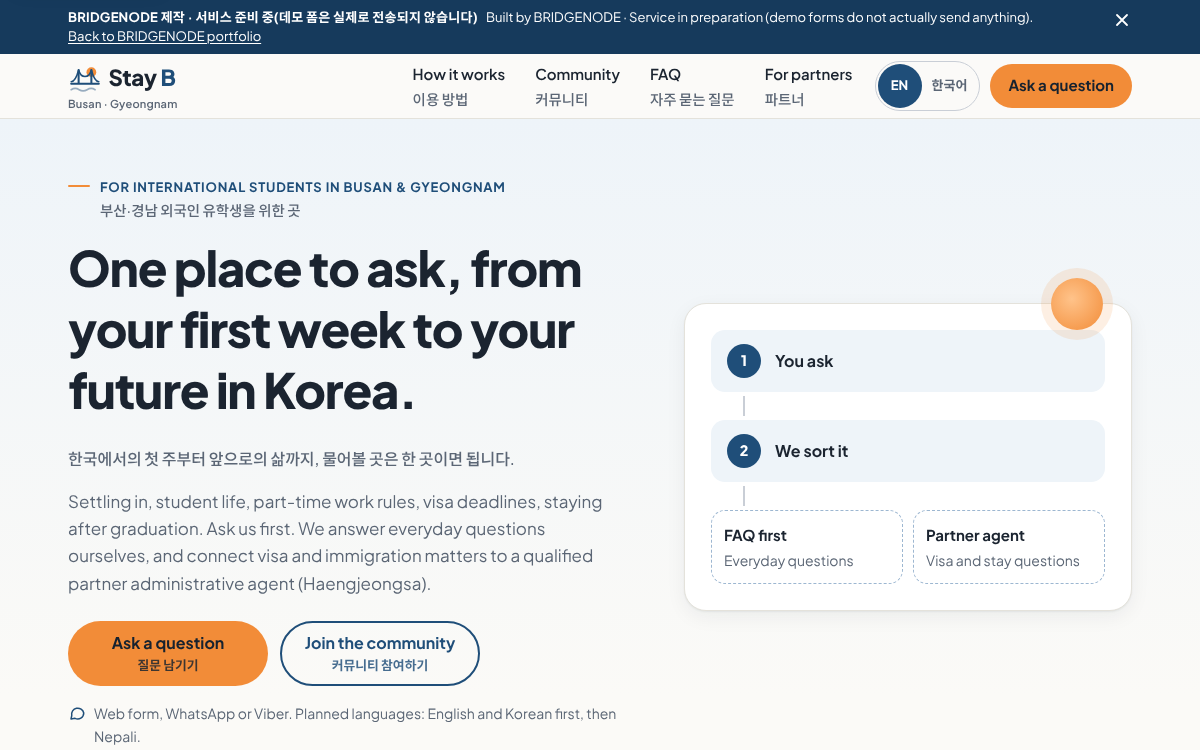
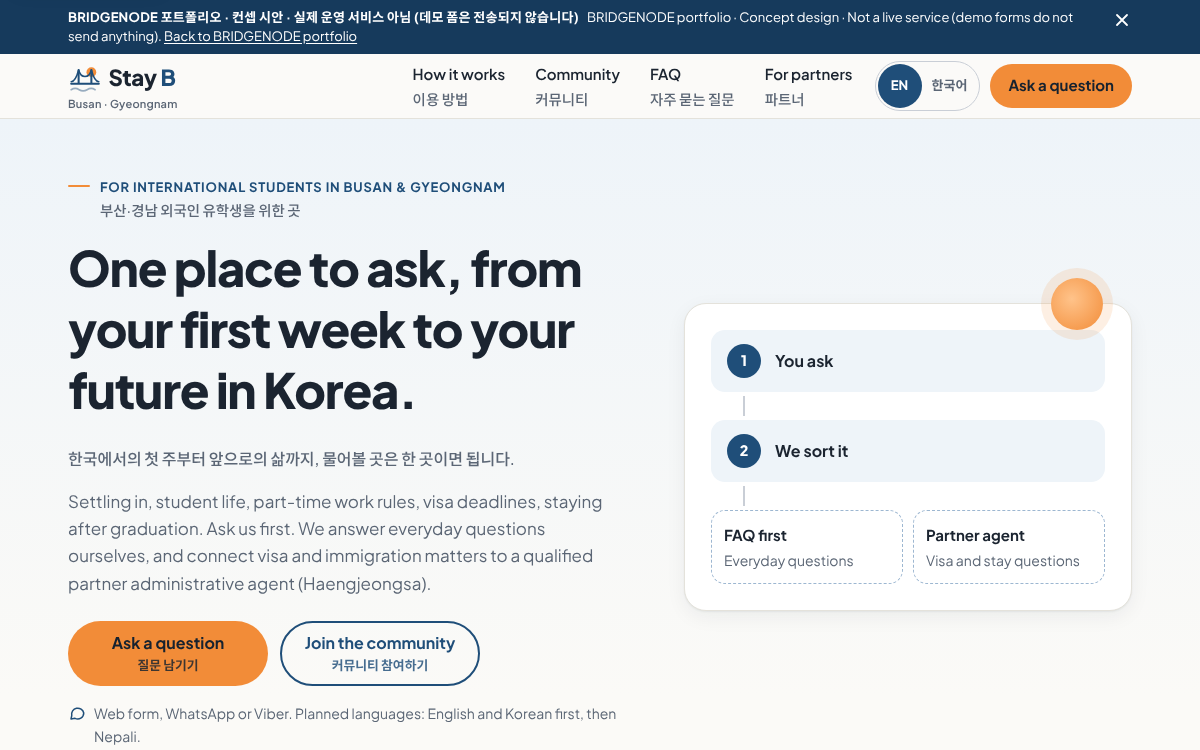
Stay B: 검토 A절 반영, 포트폴리오 컨셉 시안 표기로 되돌림
- F-A1 partners 원칙 1 문구 교체(사건 소개 표현 제거), F-A2 헤리티지 스튜디오 B 문구 메인과 통일
- F-A3 기획안 결정 5번을 '제작 메모' 절로 이동
- 안내띠·푸터 '서비스 준비 중' 제거, 컨셉 시안 문구로, 푸터에 가칭 한 줄 추가
- R-A1 흐름 제목, R-A4 피드 제목, R-A5 표 caption, R-A6 역할표 표기 통일, R-A7 canonical 절대 주소
- thumb.png 재캡처

Claude-Session: https://claude.ai/code/session_01TAYZkbMJZLRQs6imsEjKx5

Changed region(s): [[0.0617, 0.0, 0.8942, 0.0613]]

diff --git a/portfolio-site/stay-b/partners.html b/portfolio-site/stay-b/partners.html
@@ -23,8 +23,8 @@
 <div id="concept-bar" role="region" aria-label="Notice / 안내">
   <div class="wrap">
     <div class="cb-text">
-      <strong lang="ko">BRIDGENODE 제작 · 서비스 준비 중(데모 폼은 실제로 전송되지 않습니다)</strong>
-      <span data-l="en" lang="en">Built by BRIDGENODE · Service in preparation (demo forms do not actually send anything).</span>
+      <strong lang="ko">BRIDGENODE 포트폴리오 · 컨셉 시안 · 실제 운영 서비스 아님 (데모 폼은 전송되지 않습니다)</strong>
+      <span data-l="en" lang="en">BRIDGENODE portfolio · Concept design · Not a live service (demo forms do not send anything).</span>
       <a href="../"><span data-l="en" lang="en">Back to BRIDGENODE portfolio</span><span data-l="ko" lang="ko">브릿지노드 포트폴리오로</span></a>
     </div>
     <button class="cb-close" type="button" id="cb-close" aria-label="Close notice / 안내 닫기">
@@ -106,7 +106,7 @@
       <article class="hub-node r"><span class="kind"><span class="pair inline"><span lang="en">Education</span><span lang="ko">교육 기관</span></span></span><h3><span class="pair"><span lang="en">Language schools (Nepal)</span><span lang="ko">네팔 어학원</span></span></h3><p><span data-l="en" lang="en">Connecting with students in their home country and staying in touch before they arrive.</span><span data-l="ko" lang="ko">현지 학생과의 연결, 입국 전 소통을 함께합니다.</span></p></article>
       <article class="hub-node l"><span class="kind"><span class="pair inline"><span lang="en">Education</span><span lang="ko">교육 기관</span></span></span><h3><span class="pair"><span lang="en">University international offices</span><span lang="ko">대학 국제처</span></span></h3><p><span data-l="en" lang="en">Student support and running settling-in support together.</span><span data-l="ko" lang="ko">학생 관리와 정착 지원 운영에 협력합니다.</span></p></article>
       <article class="hub-node r"><span class="kind"><span class="pair inline"><span lang="en">Local</span><span lang="ko">지역</span></span></span><h3><span class="pair"><span lang="en">Local partner businesses</span><span lang="ko">지역 제휴업체</span></span></h3><p><span data-l="en" lang="en">Everyday discounts for student members.</span><span data-l="ko" lang="ko">학생 멤버를 위한 생활 할인을 제공합니다.</span></p></article>
-      <article class="hub-node l"><span class="kind"><span class="pair inline"><span lang="en">Planned</span><span lang="ko">연결 예정</span></span></span><h3><span class="pair"><span lang="en">Heritage Studio B</span><span lang="ko">헤리티지 스튜디오 B</span></span></h3><p><span data-l="en" lang="en">Welcome kits, membership goods and social content.</span><span data-l="ko" lang="ko">웰컴 키트, 멤버십 굿즈, SNS 콘텐츠.</span></p></article>
+      <article class="hub-node l"><span class="kind"><span class="pair inline"><span lang="en">Planned</span><span lang="ko">연결 예정</span></span></span><h3><span class="pair"><span lang="en">Heritage Studio B</span><span lang="ko">헤리티지 스튜디오 B</span></span></h3><p><span data-l="en" lang="en">Goods, membership kits and social content.</span><span data-l="ko" lang="ko">굿즈·멤버십 키트·SNS 콘텐츠.</span></p></article>
       <article class="hub-node r"><span class="kind"><span class="pair inline"><span lang="en">Planned</span><span lang="ko">연결 예정</span></span></span><h3><span class="pair"><span lang="en">NOWRO Korea</span><span lang="ko">NOWRO Korea</span></span></h3><p><span data-l="en" lang="en">Family visits and travel in Korea.</span><span data-l="ko" lang="ko">가족 방문·관광 연결.</span></p></article>
     </div>
     <p class="hub-foot"><span data-l="en" lang="en">Job introductions are handled by registered employment agencies and public employment centers. Stay B shares general information only. Heritage Studio B and NOWRO Korea will be connected step by step, once the student community is established.</span><span data-l="ko" lang="ko">일자리 알선은 등록된 기관과 고용센터가 수행하며, Stay B는 일반 정보만 안내합니다. 헤리티지 스튜디오 B와 NOWRO Korea는 학생 기반이 쌓인 뒤 단계적으로 연결합니다.</span></p>
@@ -118,11 +118,12 @@
   <div class="wrap">
     <div class="sec-head">
       <p class="eyebrow"><span class="pair"><span lang="en">Clear roles</span><span lang="ko">역할 구분</span></span></p>
-      <h2 id="roles-title"><span class="pair"><span lang="en">Who does what</span><span lang="ko">무엇을 누가 하나요</span></span></h2>
+      <h2 id="roles-title"><span class="pair"><span lang="en">Who does what</span><span lang="ko">누가 무엇을 하나요</span></span></h2>
       <p class="lead"><span data-l="en" lang="en">Stay B provides general information and runs student contact. All individual advice and representation are done under the partner agent's name.</span><span data-l="ko" lang="ko">Stay B는 일반 정보 제공과 학생 접점 운영까지만 맡고, 개별 판단과 대행은 모두 협업 행정사의 이름으로 진행합니다.</span></p>
     </div>
     <table class="roles">
-      <thead><tr><th scope="col"><span class="pair inline"><span lang="en">Item</span><span lang="ko">업무</span></span></th><th scope="col">Stay B</th><th scope="col">Partner agent <span lang="ko">(협업 행정사)</span></th></tr></thead>
+      <caption class="sr-only">Who does what / 누가 무엇을 하나요</caption>
+      <thead><tr><th scope="col"><span class="pair inline"><span lang="en">Item</span><span lang="ko">항목</span></span></th><th scope="col">Stay B</th><th scope="col">Partner agent <span lang="ko">(협업 행정사)</span></th></tr></thead>
       <tbody>
         <tr><th scope="row"><span class="pair"><span lang="en">General guides based on public information</span><span lang="ko">공개 정보 기반 일반 안내</span></span></th><td data-label="Stay B"><span class="r-badge r-yes"><span class="pair"><span lang="en">Yes</span><span lang="ko">담당</span></span></span></td><td data-label="Partner agent"><span class="r-badge r-mid"><span class="pair"><span lang="en">Reviews the content</span><span lang="ko">내용 감수</span></span></span></td></tr>
         <tr><th scope="row"><span class="pair"><span lang="en">Advice on individual cases</span><span lang="ko">개별 사건 판단·상담</span></span></th><td data-label="Stay B"><span class="r-badge r-no"><span class="pair"><span lang="en">No</span><span lang="ko">하지 않음</span></span></span></td><td data-label="Partner agent"><span class="r-badge r-yes"><span class="pair"><span lang="en">Yes</span><span lang="ko">담당</span></span></span></td></tr>
@@ -140,7 +141,7 @@
   <div class="wrap">
     <div class="sec-head">
       <p class="eyebrow"><span class="pair"><span lang="en">6-step flow</span><span lang="ko">6단계 흐름</span></span></p>
-      <h2 id="flow-title"><span class="pair"><span lang="en">Students ask once. Partner agents receive organised requests.</span><span lang="ko">학생은 한 곳에만 묻고, 행정사는 정리된 상담 요청을 받습니다.</span></span></h2>
+      <h2 id="flow-title"><span class="pair"><span lang="en">Students ask once. Only questions that need an agent are passed on, with the student's consent.</span><span lang="ko">학생은 한 곳에만 묻고, 행정사 상담이 필요한 질문만 학생 동의를 받아 전달됩니다.</span></span></h2>
     </div>
     <ol class="steps">
       <li class="step"><span class="n" aria-hidden="true">1</span><span class="owner sb"><span data-l="en" lang="en">Stay B</span><span data-l="ko" lang="ko">Stay B</span></span><h3><span class="pair"><span lang="en">Intake</span><span lang="ko">문의 접수</span></span></h3><p><span data-l="en" lang="en">Students ask through the web form, WhatsApp or Viber.</span><span data-l="ko" lang="ko">웹 폼, WhatsApp, Viber로 문의를 받습니다.</span></p></li>
@@ -161,7 +162,7 @@
       <h2 id="principles-title"><span class="pair"><span lang="en">What we will always keep</span><span lang="ko">저희가 지키는 원칙</span></span></h2>
     </div>
     <div class="principles">
-      <div class="principle"><span class="ic"><svg viewBox="0 0 24 24" fill="none" stroke="currentColor" stroke-width="2" stroke-linecap="round" stroke-linejoin="round" aria-hidden="true"><path d="M12 4v16M7 20h10M5 8h14M5 8l-3 6a3 3 0 0 0 6 0L5 8ZM19 8l-3 6a3 3 0 0 0 6 0l-3-6Z"/></svg></span><div><h3><span class="pair"><span lang="en">No fee splitting</span><span lang="ko">수임료를 나누지 않습니다</span></span></h3><p><span data-l="en" lang="en">We do not build any structure where fees are shared or split in return for introducing a case.</span><span data-l="ko" lang="ko">사건 소개 대가로 수임료를 나누는 구조는 만들지 않습니다.</span></p></div></div>
+      <div class="principle"><span class="ic"><svg viewBox="0 0 24 24" fill="none" stroke="currentColor" stroke-width="2" stroke-linecap="round" stroke-linejoin="round" aria-hidden="true"><path d="M12 4v16M7 20h10M5 8h14M5 8l-3 6a3 3 0 0 0 6 0L5 8ZM19 8l-3 6a3 3 0 0 0 6 0l-3-6Z"/></svg></span><div><h3><span class="pair"><span lang="en">No fee splitting</span><span lang="ko">수임료를 나누지 않습니다</span></span></h3><p><span data-l="en" lang="en">Fees for administrative work are agreed and paid only between the student and the partner agent. Stay B does not take any share of those fees.</span><span data-l="ko" lang="ko">행정 업무 비용은 학생과 협업 행정사 사이에서만 정하고 지급하며, Stay B는 그 일부를 받지 않습니다.</span></p></div></div>
       <div class="principle"><span class="ic"><svg viewBox="0 0 24 24" fill="none" stroke="currentColor" stroke-width="2" stroke-linecap="round" stroke-linejoin="round" aria-hidden="true"><path d="M12 3 5 6v5c0 4.4 3 8.3 7 9.5 4-1.2 7-5.1 7-9.5V6l-7-3Z"/><path d="m9 12 2 2 4-4"/></svg></span><div><h3><span class="pair"><span lang="en">No administrative work by the platform</span><span lang="ko">플랫폼은 행정 업무를 하지 않습니다</span></span></h3><p><span data-l="en" lang="en">Stay B does not judge individual cases, write or file documents, or collect fees for administrative work. Students pay partner agents directly.</span><span data-l="ko" lang="ko">Stay B는 개별 사건 판단, 서류 작성·신청, 행정 업무 비용 수령을 하지 않습니다. 비용은 학생이 행정사에게 직접 냅니다.</span></p></div></div>
       <div class="principle"><span class="ic"><svg viewBox="0 0 24 24" fill="none" stroke="currentColor" stroke-width="2" stroke-linecap="round" stroke-linejoin="round" aria-hidden="true"><path d="M7 3h7l5 5v13H7z"/><path d="M14 3v5h5M10 13h6M10 17h4"/></svg></span><div><h3><span class="pair"><span lang="en">Consent first</span><span lang="ko">동의가 먼저입니다</span></span></h3><p><span data-l="en" lang="en">Student information is passed to a partner agent only when the question needs one, and only with the student's consent.</span><span data-l="ko" lang="ko">학생 정보는 행정사 상담이 필요한 경우에만, 학생 동의를 받은 뒤 전달합니다.</span></p></div></div>
       <div class="principle"><span class="ic"><svg viewBox="0 0 24 24" fill="none" stroke="currentColor" stroke-width="2" stroke-linecap="round" stroke-linejoin="round" aria-hidden="true"><path d="M8 12h8M12 8v8"/><circle cx="12" cy="12" r="9"/></svg></span><div><h3><span class="pair"><span lang="en">Terms agreed together, after legal review</span><span lang="ko">세부 방식은 법적 검토 후 함께 정합니다</span></span></h3><p><span data-l="en" lang="en">How we work with partner agents will be agreed together after legal review. Everything on this page is a proposal for discussion.</span><span data-l="ko" lang="ko">협업 방식은 법적 검토를 거친 뒤 파트너와 함께 확정합니다. 이 페이지의 내용은 모두 협의를 위한 제안입니다.</span></p></div></div>
@@ -287,8 +288,10 @@
     <p class="f-legal" lang="en">Stay B provides general information based on public sources and operates a student community and consultation intake. It is not a government agency or an administrative agent's office. Stay B does not judge individual cases, prepare or file documents on anyone's behalf, or charge fees for administrative work. Those services are provided only by qualified partner administrative agents, under their own name and responsibility. Job introductions are handled by registered employment agencies. Stay B does not provide matchmaking or marriage brokering.</p>
     <p class="f-legal" lang="ko" style="margin-top:10px">Stay B는 공개 정보를 바탕으로 한 일반 안내와 유학생 커뮤니티, 상담 접수를 운영합니다. 관공서나 행정사 사무소가 아닙니다. Stay B는 개별 사건을 판단하거나, 서류를 대신 작성·신청하거나, 행정 업무 비용을 받지 않습니다. 이러한 업무는 자격을 갖춘 협업 행정사가 자신의 이름과 책임으로만 제공합니다. 일자리 알선은 등록된 기관이 수행하며, Stay B는 결혼 매칭·중개를 하지 않습니다.</p>
     <div class="f-concept">
-      <p lang="en">This site was designed and built by BRIDGENODE. Stay B is in preparation and is not a live service yet. Forms on this site are demos and do not send or store any data.</p>
-      <p lang="ko" style="margin-top:6px">이 사이트는 브릿지노드가 기획·제작했습니다. Stay B는 서비스 준비 중이며 아직 운영 중인 서비스가 아닙니다. 이 사이트의 폼은 데모라서 어떤 정보도 전송·저장하지 않습니다.</p>
+      <p lang="en">This site is a concept design planned and built by BRIDGENODE for its portfolio. It is not a live service. Forms on this site are demos and do not send or store any data.</p>
+      <p lang="en" style="margin-top:6px">Stay B is a working name.</p>
+      <p lang="ko" style="margin-top:6px">이 사이트는 브릿지노드가 포트폴리오용으로 기획·제작한 컨셉 시안이며, 실제 운영 중인 서비스가 아닙니다. 이 사이트의 폼은 데모라서 어떤 정보도 전송·저장하지 않습니다.</p>
+      <p lang="ko" style="margin-top:6px">Stay B는 가칭입니다.</p>
     </div>
     <div class="f-row">
       <span>Contact: <span class="ph">[자리표시]</span></span>
@@ -296,7 +299,7 @@
       <a href="https://bridgenode-studio.calmgrou.chatgpt.site/" target="_blank" rel="noopener"><span class="pair inline"><span lang="en">Made by BRIDGENODE</span><span lang="ko">브릿지노드 제작</span></span><span class="sr-only"> (opens in a new tab / 새 탭에서 열림)</span></a>
     </div>
     <div class="f-strip">
-      <span lang="ko">BRIDGENODE 제작 · 서비스 준비 중</span><span data-l="en" lang="en">Built by BRIDGENODE · service in preparation</span>
+      <span lang="ko">BRIDGENODE 포트폴리오 · 컨셉 시안</span><span data-l="en" lang="en">BRIDGENODE portfolio · concept design</span>
       <a href="../"><span class="pair inline"><span lang="en">Back to BRIDGENODE portfolio</span><span lang="ko">브릿지노드 포트폴리오로</span></span></a>
     </div>
   </div>

diff --git a/portfolio-site/stay-b/index.html b/portfolio-site/stay-b/index.html
@@ -23,8 +23,8 @@
 <div id="concept-bar" role="region" aria-label="Notice / 안내">
   <div class="wrap">
     <div class="cb-text">
-      <strong lang="ko">BRIDGENODE 제작 · 서비스 준비 중(데모 폼은 실제로 전송되지 않습니다)</strong>
-      <span data-l="en" lang="en">Built by BRIDGENODE · Service in preparation (demo forms do not actually send anything).</span>
+      <strong lang="ko">BRIDGENODE 포트폴리오 · 컨셉 시안 · 실제 운영 서비스 아님 (데모 폼은 전송되지 않습니다)</strong>
+      <span data-l="en" lang="en">BRIDGENODE portfolio · Concept design · Not a live service (demo forms do not send anything).</span>
       <a href="../"><span data-l="en" lang="en">Back to BRIDGENODE portfolio</span><span data-l="ko" lang="ko">브릿지노드 포트폴리오로</span></a>
     </div>
     <button class="cb-close" type="button" id="cb-close" aria-label="Close notice / 안내 닫기">
@@ -459,8 +459,10 @@
     <p class="f-legal" lang="en">Stay B provides general information based on public sources and operates a student community and consultation intake. It is not a government agency or an administrative agent's office. Stay B does not judge individual cases, prepare or file documents on anyone's behalf, or charge fees for administrative work. Those services are provided only by qualified partner administrative agents, under their own name and responsibility. Job introductions are handled by registered employment agencies. Stay B does not provide matchmaking or marriage brokering.</p>
     <p class="f-legal" lang="ko" style="margin-top:10px">Stay B는 공개 정보를 바탕으로 한 일반 안내와 유학생 커뮤니티, 상담 접수를 운영합니다. 관공서나 행정사 사무소가 아닙니다. Stay B는 개별 사건을 판단하거나, 서류를 대신 작성·신청하거나, 행정 업무 비용을 받지 않습니다. 이러한 업무는 자격을 갖춘 협업 행정사가 자신의 이름과 책임으로만 제공합니다. 일자리 알선은 등록된 기관이 수행하며, Stay B는 결혼 매칭·중개를 하지 않습니다.</p>
     <div class="f-concept">
-      <p lang="en">This site was designed and built by BRIDGENODE. Stay B is in preparation and is not a live service yet. Forms on this site are demos and do not send or store any data.</p>
-      <p lang="ko" style="margin-top:6px">이 사이트는 브릿지노드가 기획·제작했습니다. Stay B는 서비스 준비 중이며 아직 운영 중인 서비스가 아닙니다. 이 사이트의 폼은 데모라서 어떤 정보도 전송·저장하지 않습니다.</p>
+      <p lang="en">This site is a concept design planned and built by BRIDGENODE for its portfolio. It is not a live service. Forms on this site are demos and do not send or store any data.</p>
+      <p lang="en" style="margin-top:6px">Stay B is a working name.</p>
+      <p lang="ko" style="margin-top:6px">이 사이트는 브릿지노드가 포트폴리오용으로 기획·제작한 컨셉 시안이며, 실제 운영 중인 서비스가 아닙니다. 이 사이트의 폼은 데모라서 어떤 정보도 전송·저장하지 않습니다.</p>
+      <p lang="ko" style="margin-top:6px">Stay B는 가칭입니다.</p>
     </div>
     <div class="f-row">
       <span>Contact: <span class="ph">[자리표시]</span></span>
@@ -468,7 +470,7 @@
       <a href="https://bridgenode-studio.calmgrou.chatgpt.site/" target="_blank" rel="noopener"><span class="pair inline"><span lang="en">Made by BRIDGENODE</span><span lang="ko">브릿지노드 제작</span></span><span class="sr-only"> (opens in a new tab / 새 탭에서 열림)</span></a>
     </div>
     <div class="f-strip">
-      <span lang="ko">BRIDGENODE 제작 · 서비스 준비 중</span><span data-l="en" lang="en">Built by BRIDGENODE · service in preparation</span>
+      <span lang="ko">BRIDGENODE 포트폴리오 · 컨셉 시안</span><span data-l="en" lang="en">BRIDGENODE portfolio · concept design</span>
       <a href="../"><span class="pair inline"><span lang="en">Back to BRIDGENODE portfolio</span><span lang="ko">브릿지노드 포트폴리오로</span></span></a>
     </div>
   </div>

diff --git a/portfolio-site/stay-busan/index.html b/portfolio-site/stay-busan/index.html
@@ -6,7 +6,7 @@
 <title>Stay B로 이동합니다</title>
 <meta name="robots" content="noindex">
 <meta http-equiv="refresh" content="0; url=../stay-b/">
-<link rel="canonical" href="../stay-b/">
+<link rel="canonical" href="https://bridgenode-portfolio.onrender.com/stay-b/">
 <style>
 :root{--bg:#FBFAF7;--text:#1B2430;--link:#1F4E79}
 @media (prefers-color-scheme: dark){:root{--bg:#0E1823;--text:#E8EDF2;--link:#8FBCE4}}

diff --git a/work/planning/20261113-staybusan-homepage.md b/work/planning/20261113-staybusan-homepage.md
@@ -8,7 +8,14 @@
 2. **연계 브랜드 실명 사용 허용:** Heritage Studio B(헤리티지 스튜디오 B), NOWRO Korea. 로고 파일이 없으므로 텍스트로만 표기한다. (8절 4번, 검토 보고서 1-3 해결)
 3. **현재 시안은 공개 상태 유지.** (검토 보고서 1-1 관련)
 4. **"질문 남기기" 무료 여부는 미정** → FAQ 2번 `[자리표시]` 유지. (8절 2번 미해결)
-5. 제작 반영(2026-11-13): 새 위치 `portfolio-site/stay-b/`(메인 `index.html` + 파트너용 `partners.html`), 옛 주소 `portfolio-site/stay-busan/`은 `../stay-b/`로 이동하는 안내 페이지. 안내띠 문구 `BRIDGENODE 제작 · 서비스 준비 중(데모 폼은 실제로 전송되지 않습니다)`.
+
+## 제작 메모 (대표 결정 아님)
+
+> 이 절은 제작자·실장이 남긴 작업 기록이다. 대표가 정한 내용이 아니다. (검토 보고서 `work/reviews/20261113-stayb-and-dashboard.md` F-A3에 따라 결정 절에서 옮김)
+
+- 2026-11-13 제작 반영(커밋 12b5c4e): 새 위치 `portfolio-site/stay-b/`(메인 `index.html` + 파트너용 `partners.html`), 옛 주소 `portfolio-site/stay-busan/`은 `../stay-b/`로 이동하는 안내 페이지. 이때 제작자가 안내띠 문구를 `BRIDGENODE 제작 · 서비스 준비 중(데모 폼은 실제로 전송되지 않습니다)`로 바꿨으나, 대표 지시로 확인되지 않음.
+- 2026-11-13 실장 지시(대표 판단 전 기본값): 승인된 성격인 "포트폴리오 컨셉 시안"으로 되돌림. 안내띠 `BRIDGENODE 포트폴리오 · 컨셉 시안 · 실제 운영 서비스 아님 (데모 폼은 전송되지 않습니다)`, "서비스 준비 중" 표현 제거, 두 페이지 푸터에 `Stay B는 가칭입니다.` / `Stay B is a working name.` 한 줄 추가(본문 배지는 되살리지 않음).
+- 대표 판단 대기: 시안으로 둘지 / 준비 중 서비스 사전 공개로 둘지, 가칭 표기 유지 여부, 헤리티지 스튜디오 B 담당 범위(웰컴 키트 포함 여부). 검토 보고서 A-6 참고.
 
 ---
 
